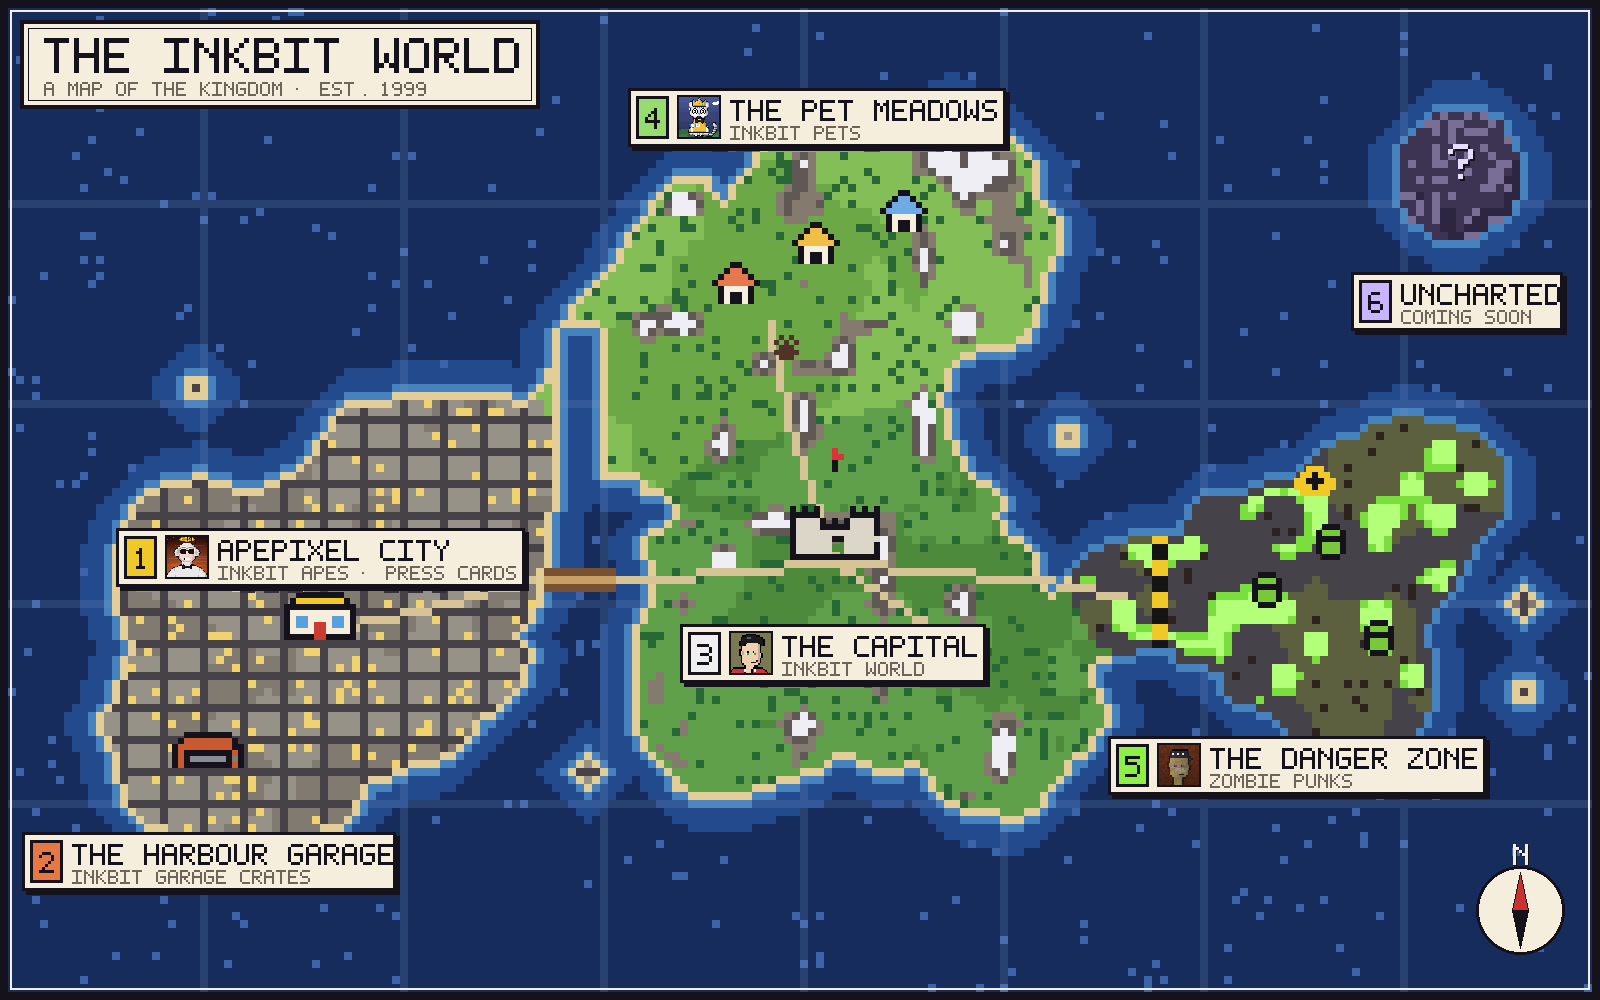
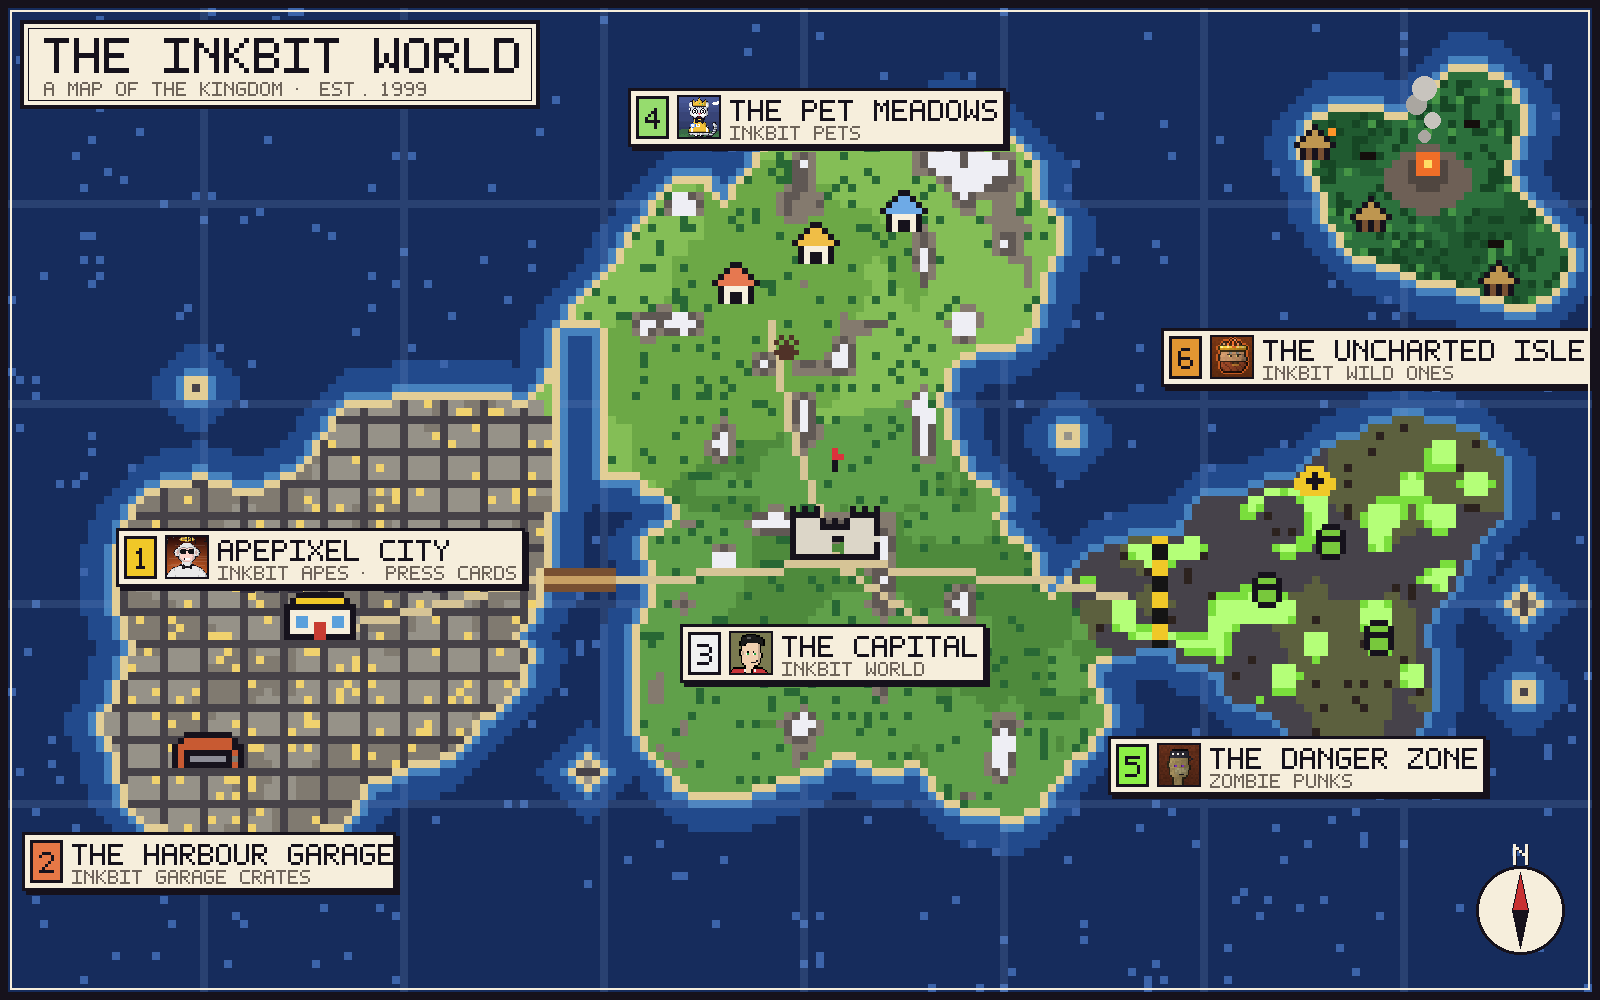
Add files via upload

Changed region(s): [[0.7188, 0.031, 1.0, 0.403]]

diff --git a/index.html b/index.html
@@ -4,7 +4,7 @@
 <meta charset="utf-8">
 <meta name="viewport" content="width=device-width, initial-scale=1">
 <title>Inkbit News</title>
-<meta name="description" content="The newspaper of the Inkbit Kingdom: news, stories and events from Inkbit Apes, Press Cards, Inkbit World, Inkbit Pets and Inkbit Zombie Punks.">
+<meta name="description" content="The newspaper of the Inkbit Kingdom: news, stories and events from Inkbit Apes, Press Cards, Inkbit World, Inkbit Pets, Inkbit Zombie Punks and Inkbit Wild Ones.">
 <meta property="og:title" content="Inkbit News">
 <meta property="og:description" content="News, stories and events from the Inkbit Kingdom.">
 <meta property="og:image" content="img/zombie-banner.jpg">
@@ -168,7 +168,7 @@ footer{padding:30px 0 50px;font-family:var(--mono);font-size:13px}
     <p>The only newspaper of the Inkbit Kingdom</p>
   </header>
   <nav>
-    <a href="#map">Kingdom Map</a><a href="#apes">Inkbit Apes</a><a href="#cards">Press Cards</a><a href="#world">Inkbit World</a><a href="#pets">Inkbit Pets</a><a href="#zombies">Zombie Punks</a><a href="#rewards">Holder Rewards</a><a href="#story">The Story</a><a href="#events">Events</a>
+    <a href="#map">Kingdom Map</a><a href="#apes">Inkbit Apes</a><a href="#cards">Press Cards</a><a href="#world">Inkbit World</a><a href="#pets">Inkbit Pets</a><a href="#zombies">Zombie Punks</a><a href="#wild">Wild Ones</a><a href="#rewards">Holder Rewards</a><a href="#story">The Story</a><a href="#events">Events</a>
   </nav>
 </div>
 
@@ -177,6 +177,36 @@ footer{padding:30px 0 50px;font-family:var(--mono);font-size:13px}
 </div>
 
 <main class="wrap">
+
+  <!-- SECOND STORY: WILD ONES -->
+  <article class="lead" id="wildlead">
+    <div>
+      <div class="kicker">Discovered · The Uncharted Isle</div>
+      <h2>An island nobody finished drawing. 4,444 Wild Ones live there.</h2>
+      <p class="dek">Before the printer, there was ink, and the Wild Ones made it first. Ten tribes, one Supreme Chief, and a recipe the whole Kingdom may soon need.</p>
+      <figure>
+        <img src="img/wild-banner.jpg" alt="Inkbit Wild Ones banner: The Ten Tribes of the First Ink">
+        <figcaption>Ten tribes of the First Ink, as sketched by the first explorer to come back.</figcaption>
+      </figure>
+    </div>
+    <aside class="side">
+      <div class="kicker" id="wildState">Free mint</div>
+      <div class="count" aria-live="polite">
+        <div><b id="wd-d">--</b><small>DAYS</small></div>
+        <div><b id="wd-h">--</b><small>HRS</small></div>
+        <div><b id="wd-m">--</b><small>MIN</small></div>
+        <div><b id="wd-s">--</b><small>SEC</small></div>
+      </div>
+      <div class="when">Oct 27, 20:00 → Oct 30, 19:00 (GMT+7)</div>
+      <a class="btn" data-link="wild" href="#" target="_blank" rel="noopener">Inkbit Wild Ones on OpenSea</a>
+      <ul class="facts">
+        <li><span>Supply</span><b>4,444</b></li>
+        <li><span>Price</span><b>Free</b></li>
+        <li><span>Limit</span><b>3 per wallet</b></li>
+        <li><span>Reveal</span><b>After mint closes</b></li>
+      </ul>
+    </aside>
+  </article>
 
   <!-- LEAD STORY -->
   <article class="lead" id="lead">
@@ -212,8 +242,8 @@ footer{padding:30px 0 50px;font-family:var(--mono);font-size:13px}
   <section id="map">
     <div class="sh"><h3>THE KINGDOM MAP</h3><span>Where every Inkbit character lives</span></div>
     <figure class="worldmap">
-      <img src="img/kingdom-map.png" alt="Pixel map of the Inkbit World: 1 Apepixel City (Inkbit Apes and Press Cards), 2 the Harbour Garage, 3 the Capital (Inkbit World), 4 the Pet Meadows (Inkbit Pets), 5 the Danger Zone (Zombie Punks), 6 an uncharted island">
-      <figcaption>The Inkbit World, as surveyed by Inkbit News. Island 6 has not been charted yet.</figcaption>
+      <img src="img/kingdom-map.png" alt="Pixel map of the Inkbit World: 1 Apepixel City (Inkbit Apes and Press Cards), 2 the Harbour Garage, 3 the Capital (Inkbit World), 4 the Pet Meadows (Inkbit Pets), 5 the Danger Zone (Zombie Punks), 6 the Uncharted Isle (Inkbit Wild Ones)">
+      <figcaption>The Inkbit World, as surveyed by Inkbit News. The Uncharted Isle was added to the map in October 2026.</figcaption>
     </figure>
     <div class="map">
       <a class="district hq" href="#apes">
@@ -243,6 +273,13 @@ footer{padding:30px 0 50px;font-family:var(--mono);font-size:13px}
         <p>3,333 Zombie Punks sealed behind hazard tape after the Inkrot outbreak.</p>
         <div class="tiles"><img src="img/zombie-1.png" alt=""><img src="img/zombie-5.png" alt=""><img src="img/zombie-9.png" alt=""><img src="img/zombie-12.png" alt=""></div>
         <span class="status" data-status="zombies"></span>
+      </a>
+      <a class="district hq" href="#wild">
+        <span class="tag">District 6 · The Uncharted Isle, far east of the map</span>
+        <h4>Inkbit Wild Ones</h4>
+        <p>4,444 tribespeople in ten tribes, living among volcanoes, caves and campfires. They made the very first ink.</p>
+        <div class="tiles"><img src="img/wild-1.png" alt=""><img src="img/wild-2.png" alt=""><img src="img/wild-4.png" alt=""><img src="img/wild-5.png" alt=""><img src="img/wild-6.png" alt=""><img src="img/wild-7.png" alt=""><img src="img/wild-8.png" alt=""><img src="img/wild-9.png" alt=""></div>
+        <span class="status" data-status="wild"></span>
       </a>
     </div>
   </section>
@@ -346,6 +383,27 @@ footer{padding:30px 0 50px;font-family:var(--mono);font-size:13px}
         <div class="btns"><a class="btn" data-link="zombies" href="#" target="_blank" rel="noopener">View on OpenSea</a></div>
       </div>
     </div>
+
+    <div class="coll" id="wild">
+      <div class="grid">
+        <img src="img/wild-supreme.png" alt="The First Flame, Supreme Chief"><img src="img/wild-chief-1.png" alt="Chief of the Ash Tribe"><img src="img/wild-chief-3.png" alt="Chief of the River Tribe"><img src="img/wild-chief-7.png" alt="Chief of the Ember Tribe">
+        <img src="img/wild-10.png" alt="Inkbit Wild One"><img src="img/wild-11.png" alt="Inkbit Wild One"><img src="img/wild-12.png" alt="Inkbit Wild One"><img src="img/wild-3.png" alt="Inkbit Wild One">
+      </div>
+      <div>
+        <span class="status" data-status="wild"></span>
+        <h4>Inkbit Wild Ones</h4>
+        <p>4,444 head-only pixel tribespeople from the Uncharted Isle, built from 30 layers and 1,800 hand-drawn parts. Every Wild One belongs to one of ten tribes: Ash, Stone, River, Antler, Tusk, Moss, Ember, Bone, Moon and Thunder.</p>
+        <table class="tiers">
+          <tr><td><span class="dot" style="background:var(--gold)"></span>Supreme Chief · The First Flame</td><td>1</td></tr>
+          <tr><td><span class="dot" style="background:var(--red)"></span>Tribe Chiefs</td><td>10</td></tr>
+          <tr><td><span class="dot" style="background:#b06ad8"></span>Tribe Advisors · Elders &amp; Seers</td><td>20</td></tr>
+          <tr><td><span class="dot" style="background:var(--paper2)"></span>Tribe Council</td><td>100</td></tr>
+          <tr><td><span class="dot" style="background:#e8862a"></span>Band Leaders</td><td>400</td></tr>
+          <tr><td><span class="dot" style="background:var(--toxic)"></span>The Tribe · Warrior → Villager</td><td>3,913</td></tr>
+        </table>
+        <div class="btns"><a class="btn" data-link="wild" href="#" target="_blank" rel="noopener">View on OpenSea</a></div>
+      </div>
+    </div>
   </section>
 
   <!-- REWARDS -->
@@ -407,10 +465,15 @@ footer{padding:30px 0 50px;font-family:var(--mono);font-size:13px}
         <h5>The quarantine breaks</h5>
         <p>The infected were sealed behind hazard tape at the edge of the map, in a district renamed the Danger Zone. On October 30 the tape gives way. Who walks out, and at what stage of infection, will only be known after the reveal.</p>
       </div>
-      <div class="ch tbc">
+      <div class="ch">
         <div class="no">CHAPTER 07</div>
-        <h5>Is anyone printing a cure?</h5>
-        <p>Rumours say the old printer has been running again at night. The Ink Chemist hasn't been seen in days. Holders across the Kingdom will be the first to read it here. To be continued.</p>
+        <h5>The island at the edge of the map</h5>
+        <p>Far east, past the Danger Zone, lies an island no map-maker ever finished. Long before 1999, its people ground charcoal, red clay, berries and bone into the First Ink. Ten tribes, each keeping one colour. They call themselves the Wild Ones.</p>
+      </div>
+      <div class="ch tbc">
+        <div class="no">CHAPTER 08</div>
+        <h5>Is anyone mixing a cure?</h5>
+        <p>The Ink Chemist has gone missing. Some say she sailed east to find Pure Ink, the recipe only the First Flame knows and the one thing that could cure Inkrot. The Wild Ones have never let an outsider onto their island. Until now. To be continued.</p>
       </div>
     </div>
   </section>
@@ -426,7 +489,7 @@ footer{padding:30px 0 50px;font-family:var(--mono);font-size:13px}
 <footer class="wrap">
   <div class="notice"><b>Public notice.</b> Inkbit will never DM you to "verify" or "sync" your wallet, and never asks for a seed phrase. Only mint from the official OpenSea links on this page.</div>
   <div class="foot">
-    <div><a data-link="x" href="#" target="_blank" rel="noopener">X @InkbitApes</a><a data-link="apes" href="#" target="_blank" rel="noopener">Inkbit Apes</a><a data-link="cards" href="#" target="_blank" rel="noopener">Press Cards</a><a data-link="world" href="#" target="_blank" rel="noopener">Inkbit World</a><a data-link="pets" href="#" target="_blank" rel="noopener">Inkbit Pets</a><a data-link="zombies" href="#" target="_blank" rel="noopener">Zombie Punks</a></div>
+    <div><a data-link="x" href="#" target="_blank" rel="noopener">X @InkbitApes</a><a data-link="apes" href="#" target="_blank" rel="noopener">Inkbit Apes</a><a data-link="cards" href="#" target="_blank" rel="noopener">Press Cards</a><a data-link="world" href="#" target="_blank" rel="noopener">Inkbit World</a><a data-link="pets" href="#" target="_blank" rel="noopener">Inkbit Pets</a><a data-link="zombies" href="#" target="_blank" rel="noopener">Zombie Punks</a><a data-link="wild" href="#" target="_blank" rel="noopener">Wild Ones</a></div>
     <div>© Inkbit Kingdom · Inkbit News</div>
   </div>
 </footer>
@@ -439,7 +502,8 @@ const LINKS = {
   cards:   "https://opensea.io/collection/inkbit-press-cards",
   world:   "",
   pets:    "",
-  zombies: ""
+  zombies: "",
+  wild:    ""
 };
 /* Mint windows (GMT+7). Set start to "" if the date isn't announced yet. */
 const DROPS = {
@@ -447,9 +511,12 @@ const DROPS = {
   cards:   { label: "Minted out" },   // fixed label (no dates)
   world:   { start: "",                          end: "" },
   pets:    { start: "2026-10-26T21:15:00+07:00", end: "2026-10-27T21:15:00+07:00" },
-  zombies: { start: "2026-10-30T20:00:00+07:00", end: "2026-11-06T20:00:00+07:00" }
+  zombies: { start: "2026-10-30T20:00:00+07:00", end: "2026-11-06T20:00:00+07:00" },
+  wild:    { start: "2026-10-27T20:00:00+07:00", end: "2026-10-30T19:00:00+07:00" }
 };
 const EVENTS = [
+  { d: "2026-10-27T20:00:00+07:00", t: "Inkbit Wild Ones mint opens", s: "Free · 3 per wallet · 4,444 tribespeople" },
+  { d: "2026-10-30T19:00:00+07:00", t: "Inkbit Wild Ones mint closes", s: "Tribe and rank revealed after mint" },
   { d: "2026-10-29T23:59:00+07:00", t: "Inkbit Apes mint closes", s: "Apes and Press Cards revealed after the mint · hunt the 11 Misprints" },
   { d: "", t: "Ape Giveaway · Round 1 snapshot", s: "When Inkbit Apes hits 80% minted · hold 1 card + 2 apes" },
   { d: "", t: "Inkbit Garage crate snapshot", s: "Date announced in advance · hold 3 cards + 5 apes" },
@@ -493,6 +560,7 @@ const ev = document.getElementById("eventList");
 });
 
 const news = [
+  "<b>DISCOVERED</b> The Uncharted Isle · 4,444 Wild Ones in ten tribes · free mint Oct 27 20:00",
   "<b>APEPIXEL CITY</b> Inkbit Apes still printing · mint closes Oct 29 · 11 Misprints hiding in the stack",
   "<b>PRESS CARDS</b> 555 free cards minted out in ~20 minutes",
   "<b>REWARDS</b> Hold 1 Press Card + 2 Apes for the Round 1 Ape Giveaway",
@@ -503,6 +571,19 @@ const news = [
   "<b>NOTICE</b> Inkbit never DMs you to verify your wallet"
 ].map(s=>`<span>${s}</span>`).join("");
 document.getElementById("ticker").innerHTML = news + news;
+
+function wildTick(){
+  const w = DROPS.wild, s = new Date(w.start), e = new Date(w.end), t = now();
+  let target = s, label = "Free mint opens in";
+  if(t >= s && t < e){ target = e; label = "Minting now · closes in"; }
+  const el = document.getElementById("wildState");
+  if(t >= e){ el.textContent = "Mint closed · reveal soon"; ["d","h","m","s"].forEach(k=>document.getElementById("wd-"+k).textContent="00"); return; }
+  el.textContent = label;
+  let r = Math.max(0, target - t) / 1000; const p = n => String(Math.floor(n)).padStart(2,"0");
+  document.getElementById("wd-d").textContent = p(r/86400); document.getElementById("wd-h").textContent = p(r%86400/3600);
+  document.getElementById("wd-m").textContent = p(r%3600/60); document.getElementById("wd-s").textContent = p(r%60);
+}
+wildTick(); setInterval(wildTick,1000);
 
 function tick(){
   const z = DROPS.zombies, s = new Date(z.start), e = new Date(z.end), t = now();
